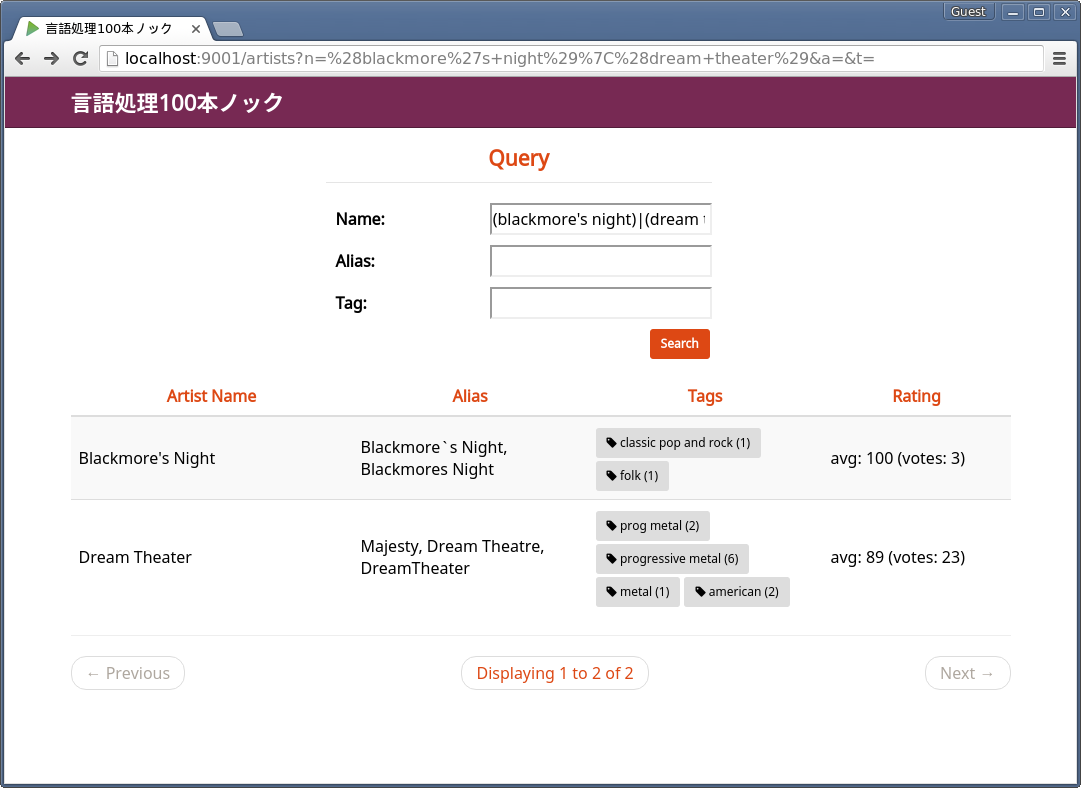
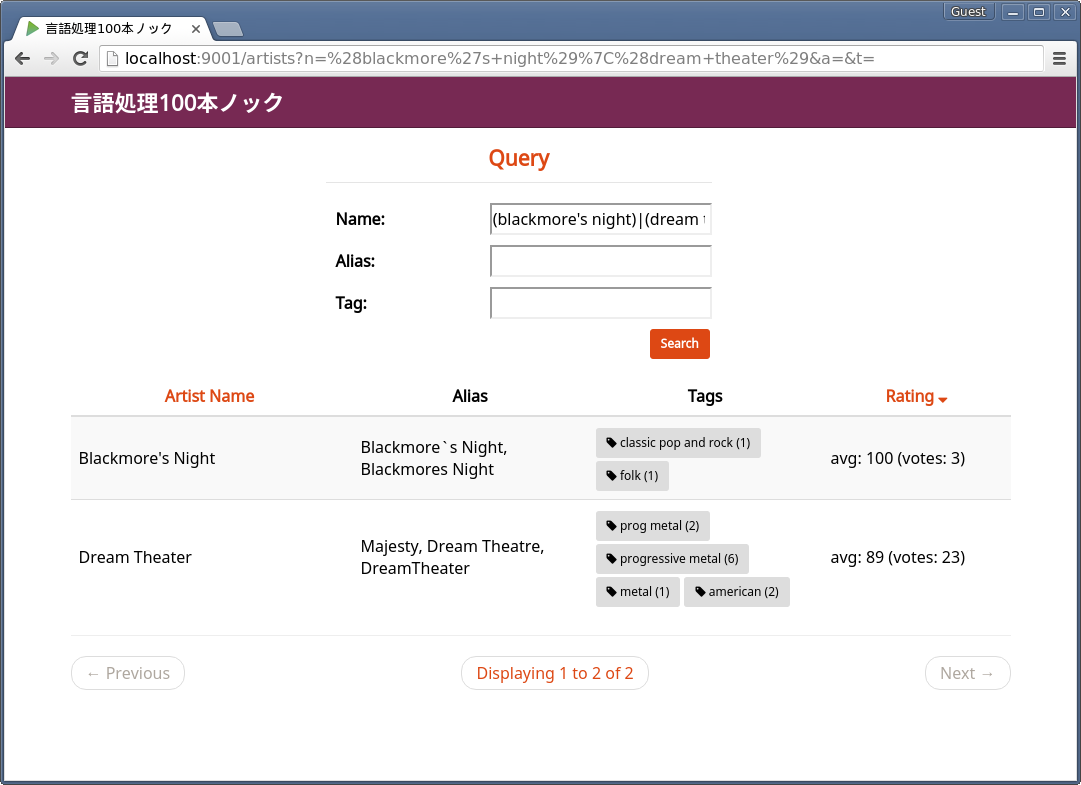
Update Q69
Now it works.

diff --git a/Q69/app/views/list.scala.html b/Q69/app/views/list.scala.html
@@ -5,9 +5,13 @@
   }.getOrElse(currentOrderBy), nameFilter, aliasFilter, tagFilter)
 }
 @header(orderBy: Int, title: String, width: Int) = {
-<th class="col@orderBy header @if(scala.math.abs(currentOrderBy) == orderBy) @{if(currentOrderBy < 0) "glyphicon glyphicon-chevron-down" else "glyphicon glyphicon-chevron-up"}" style="text-align: center; width: @{width}%;">
-    <a href="@link(0, Some(orderBy))">@title</a>
-  </th>
+<th style="width: @{width}%;">
+  <a href="@link(0, Some(orderBy))">
+    @title
+    <i class="fa @if(scala.math.abs(currentOrderBy) == orderBy) @{if(currentOrderBy < 0) "fa-sort-desc" else "fa-sort-asc"}">
+    </i>
+  </a>
+</th>
 }
 @main("言語処理100本ノック") {
   <div class="container">
@@ -29,10 +33,10 @@
       <table class="table table-striped">
         <thead>
           <tr>
-            @header(2, "Artist Name", 30)
-            @header(3, "Alias", 25)
-            @header(4, "Tags", 25)
-            @header(5, "Rating", 20)
+            @header(1, "Artist Name", 30)
+            <th style="width: 25%;">Alias</th>
+            <th style="width: 25%;">Tags</th>
+            @header(2, "Rating", 20)
           </tr>
         </thead>
         <tbody>

diff --git a/Q69/public/stylesheets/main.css b/Q69/public/stylesheets/main.css
@@ -69,6 +69,10 @@ table.table {
   vertical-align: middle;
 }
 
+.table > thead > tr > th {
+  text-align: center;
+}
+
 td > button {
   margin-top: 3px;
   margin-bottom: 3px;

diff --git a/Q69/README.md b/Q69/README.md
@@ -1,9 +1,9 @@
 Q69
 ===
 
-THES DOES NOT WORK YET.
-
 This application is written based on [playing-reactive-mongo](https://github.com/knoldus/playing-reactive-mongo).
 
-To launch the application, type `sbt run` in the directory `Q69`.
-Then you can access `localhost:9000` on your favorite browser.
+1. Import `artist.json` to MongoDB by running `scripts/import.sh`.
+2. Launch the server. Type `sbt "run <port_number>"`.
+3. Open `localhost:<port_number>` by your favorite browser.
+
